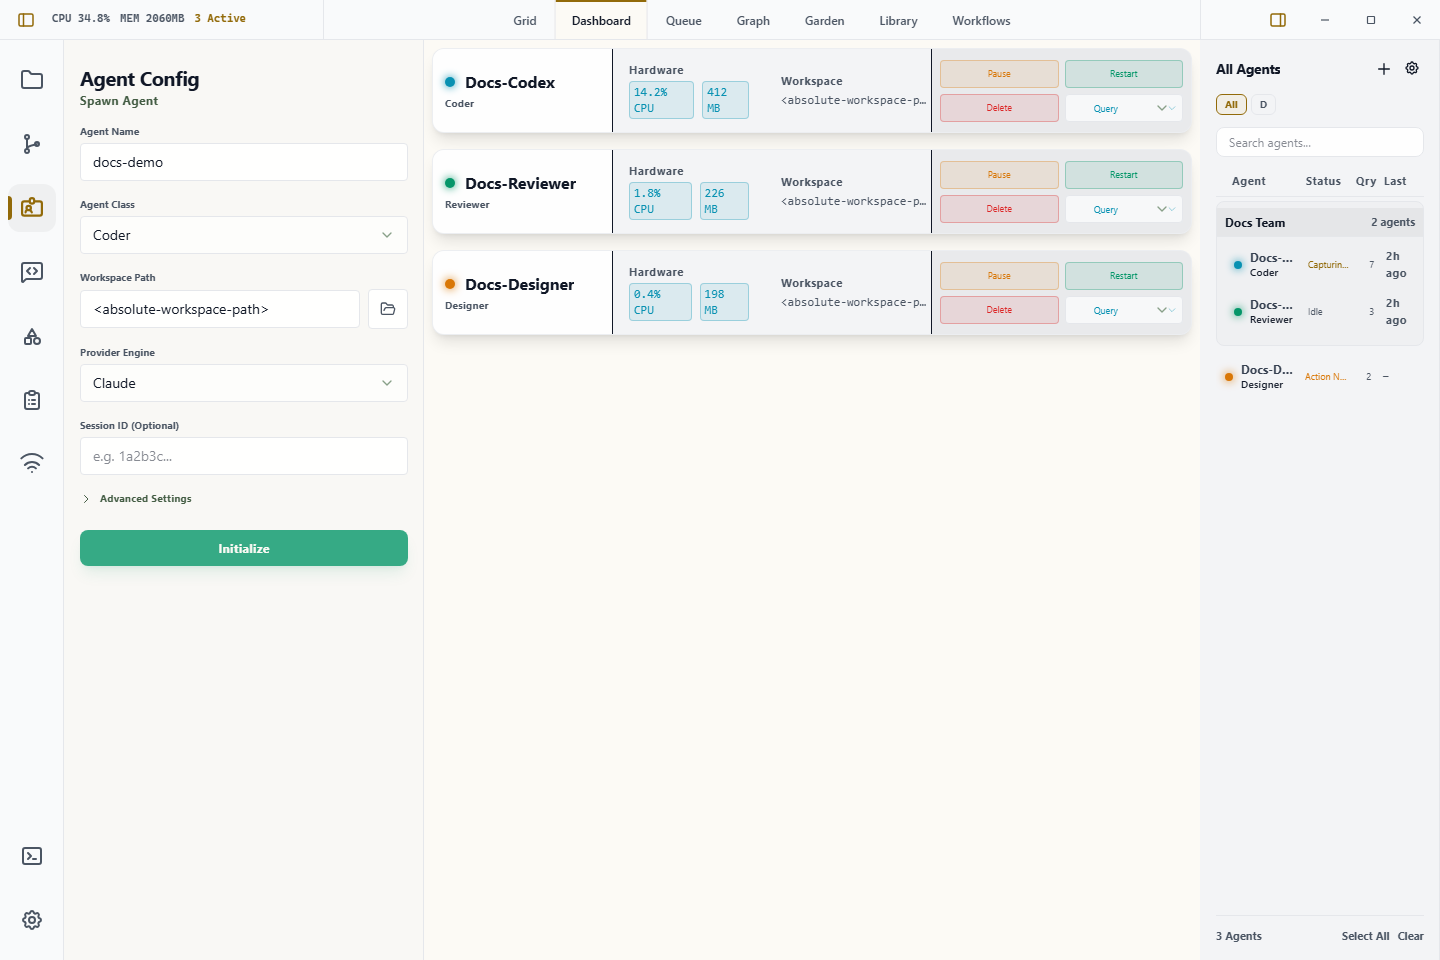
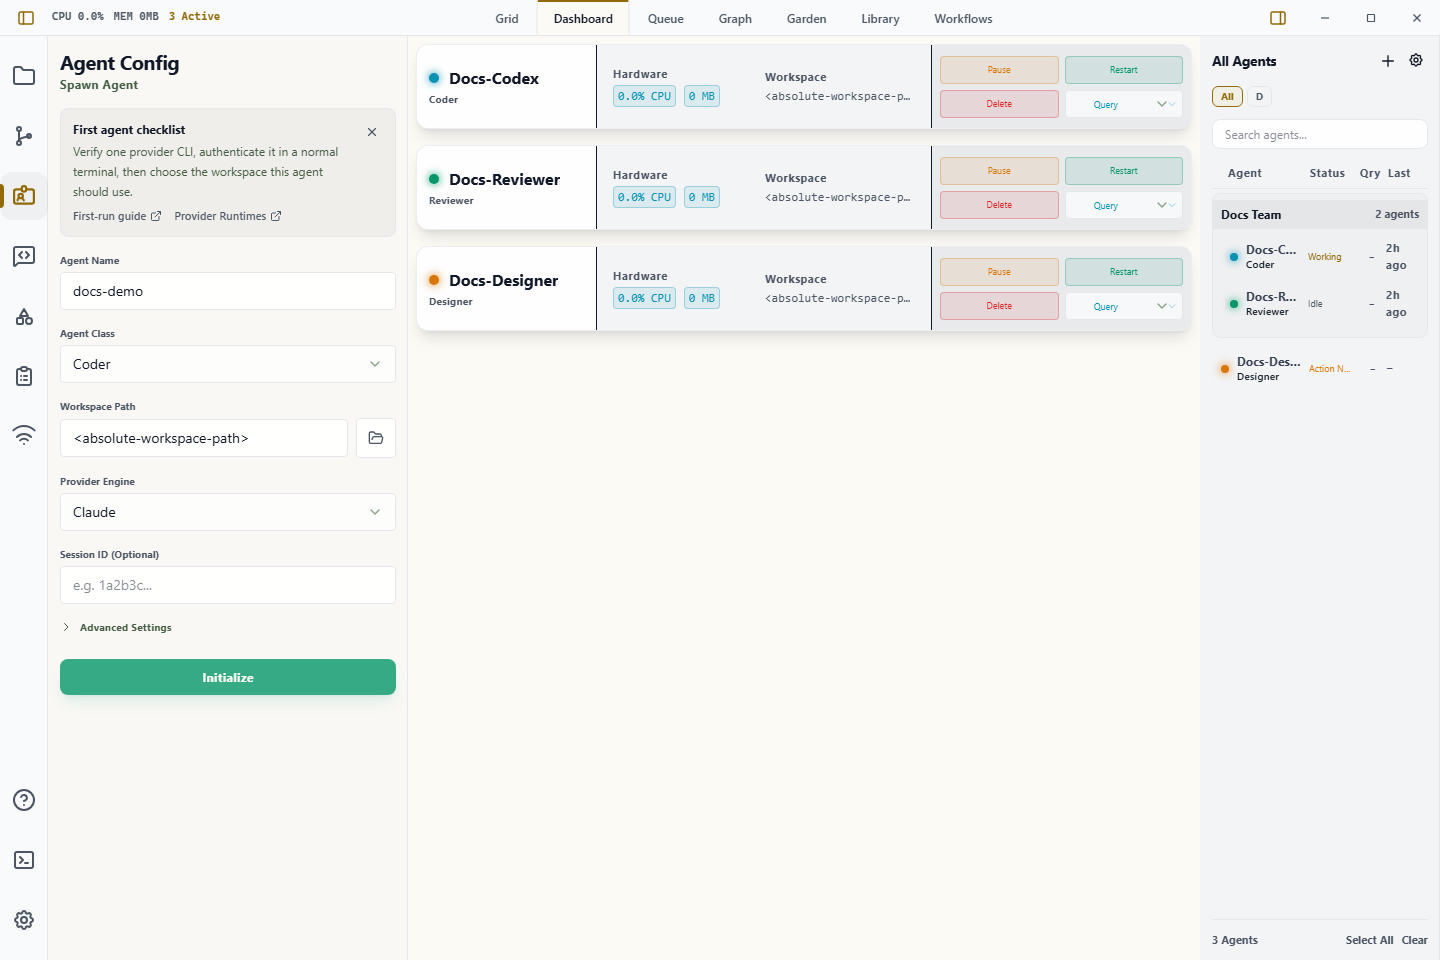
feat(onboarding): add contextual help entry points

diff --git a/src/components/OnboardingHint.test.tsx b/src/components/OnboardingHint.test.tsx
@@ -1,0 +1,57 @@
+import { render, screen } from "@testing-library/react";
+import userEvent from "@testing-library/user-event";
+import { describe, expect, it, beforeEach } from "vitest";
+import { DocsLink } from "./DocsLink";
+import { OnboardingHint } from "./OnboardingHint";
+
+describe("DocsLink", () => {
+  it("builds public docs links for in-app help", () => {
+    render(<DocsLink path="/guide/getting-started">Getting Started</DocsLink>);
+
+    expect(screen.getByRole("link", { name: /getting started/i })).toHaveAttribute(
+      "href",
+      "https://docs.wardian.org/guide/getting-started",
+    );
+    expect(screen.getByRole("link", { name: /getting started/i })).toHaveAttribute("target", "_blank");
+  });
+});
+
+describe("OnboardingHint", () => {
+  beforeEach(() => {
+    localStorage.clear();
+  });
+
+  it("stores dismissed hints locally so they do not repeat", async () => {
+    const user = userEvent.setup();
+
+    const { rerender } = render(
+      <OnboardingHint id="spawn-agent" title="Start here">
+        Verify a provider before spawning.
+      </OnboardingHint>,
+    );
+
+    expect(screen.getByText("Start here")).toBeInTheDocument();
+    await user.click(screen.getByRole("button", { name: /dismiss start here/i }));
+
+    rerender(
+      <OnboardingHint id="spawn-agent" title="Start here">
+        Verify a provider before spawning.
+      </OnboardingHint>,
+    );
+
+    expect(screen.queryByText("Start here")).not.toBeInTheDocument();
+    expect(localStorage.getItem("wardian:onboarding-hint:spawn-agent")).toBe("dismissed");
+  });
+
+  it("does not render an already-dismissed hint on first paint", () => {
+    localStorage.setItem("wardian:onboarding-hint:spawn-agent", "dismissed");
+
+    render(
+      <OnboardingHint id="spawn-agent" title="Start here">
+        Verify a provider before spawning.
+      </OnboardingHint>,
+    );
+
+    expect(screen.queryByText("Start here")).not.toBeInTheDocument();
+  });
+});

diff --git a/src/components/OnboardingHint.tsx b/src/components/OnboardingHint.tsx
@@ -1,0 +1,56 @@
+import { useEffect, useState, type PropsWithChildren, type ReactNode } from "react";
+import { X } from "lucide-react";
+
+const storagePrefix = "wardian:onboarding-hint:";
+
+interface OnboardingHintProps extends PropsWithChildren {
+  id: string;
+  title: string;
+  actions?: ReactNode;
+}
+
+function storageKey(id: string) {
+  return `${storagePrefix}${id}`;
+}
+
+function isStoredDismissed(id: string) {
+  return localStorage.getItem(storageKey(id)) === "dismissed";
+}
+
+export function OnboardingHint({ id, title, actions, children }: OnboardingHintProps) {
+  const [isDismissed, setIsDismissed] = useState(() => isStoredDismissed(id));
+
+  useEffect(() => {
+    setIsDismissed(isStoredDismissed(id));
+  }, [id]);
+
+  if (isDismissed) {
+    return null;
+  }
+
+  const dismiss = () => {
+    localStorage.setItem(storageKey(id), "dismissed");
+    setIsDismissed(true);
+  };
+
+  return (
+    <section className="rounded-lg border border-wardian-border bg-wardian-card-bg-muted px-3 py-3 text-xs text-muted">
+      <div className="flex items-start gap-3">
+        <div className="min-w-0 flex-1">
+          <h3 className="text-xs font-bold text-primary">{title}</h3>
+          <div className="mt-1 leading-5 text-muted">{children}</div>
+          {actions && <div className="mt-2 flex flex-wrap items-center gap-3">{actions}</div>}
+        </div>
+        <button
+          type="button"
+          aria-label={`Dismiss ${title}`}
+          title="Dismiss"
+          onClick={dismiss}
+          className="shrink-0 rounded-md p-1 text-muted-neutral hover:bg-wardian-card-bg hover:text-bright-neutral transition-colors"
+        >
+          <X className="h-3.5 w-3.5" aria-hidden="true" />
+        </button>
+      </div>
+    </section>
+  );
+}

diff --git a/src/components/DocsLink.tsx b/src/components/DocsLink.tsx
@@ -1,0 +1,38 @@
+import type { PropsWithChildren } from "react";
+import { ExternalLink } from "lucide-react";
+
+export const DOCS_BASE_URL = "https://docs.wardian.org";
+
+export function docsUrl(path: string): string {
+  const normalizedPath = path.startsWith("/") ? path : `/${path}`;
+  return `${DOCS_BASE_URL}${normalizedPath}`;
+}
+
+interface DocsLinkProps extends PropsWithChildren {
+  path: string;
+  className?: string;
+  title?: string;
+  "data-testid"?: string;
+}
+
+export function DocsLink({
+  path,
+  className = "inline-flex items-center gap-1 rounded-md text-[11px] font-semibold text-muted-neutral hover:text-[var(--color-wardian-accent)] transition-colors",
+  title,
+  "data-testid": testId,
+  children,
+}: DocsLinkProps) {
+  return (
+    <a
+      data-testid={testId}
+      href={docsUrl(path)}
+      target="_blank"
+      rel="noreferrer"
+      title={title}
+      className={className}
+    >
+      <span>{children}</span>
+      <ExternalLink className="h-3 w-3" aria-hidden="true" />
+    </a>
+  );
+}

diff --git a/src/features/agents/SpawnAgentPanel.test.tsx b/src/features/agents/SpawnAgentPanel.test.tsx
@@ -27,6 +27,25 @@ describe("SpawnAgentPanel", () => {
     expect(providerSelect).toHaveTextContent("OpenCode");
   });
 
+  it("shows dismissible provider and first-run help before spawning", () => {
+    render(
+      <SpawnAgentPanel
+        agentClasses={[{ name: "Generalist", description: "", is_default: true }]}
+        onSpawned={() => {}}
+      />,
+    );
+
+    expect(screen.getByText("First agent checklist")).toBeInTheDocument();
+    expect(screen.getByRole("link", { name: /first-run guide/i })).toHaveAttribute(
+      "href",
+      "https://docs.wardian.org/guide/getting-started",
+    );
+    expect(screen.getByRole("link", { name: /provider runtimes/i })).toHaveAttribute(
+      "href",
+      "https://docs.wardian.org/providers",
+    );
+  });
+
   it("sets the workspace path from the native folder picker", async () => {
     openMock.mockResolvedValue("C:\\projects\\picked-app");
     invokeMock.mockResolvedValue(true);

diff --git a/src/layout/SidebarIconRail.test.tsx b/src/layout/SidebarIconRail.test.tsx
@@ -20,4 +20,21 @@ describe("SidebarIconRail density", () => {
     expect(explorerIcon).toHaveClass("w-6");
     expect(explorerIcon).toHaveClass("h-6");
   });
+
+  it("exposes a non-blocking Getting Started help entry point from the app shell", () => {
+    render(
+      <SidebarIconRail
+        activeTab="explorer"
+        setActiveTab={vi.fn()}
+        setCollapsed={vi.fn()}
+        userTerminalOpen={false}
+        onToggleUserTerminal={vi.fn()}
+      />,
+    );
+
+    expect(screen.getByTestId("sidebar-help-getting-started")).toHaveAttribute(
+      "href",
+      "https://docs.wardian.org/guide/getting-started",
+    );
+  });
 });

diff --git a/src/features/agents/SpawnAgentPanel.tsx b/src/features/agents/SpawnAgentPanel.tsx
@@ -4,6 +4,8 @@ import { open } from "@tauri-apps/plugin-dialog";
 import { FolderOpen } from "lucide-react";
 import { AgentConfig, AgentClassDefinition, ProviderName } from "../../types";
 import { AdvancedSettings } from "../../components/AdvancedSettings";
+import { DocsLink } from "../../components/DocsLink";
+import { OnboardingHint } from "../../components/OnboardingHint";
 import { defaultProviderConfig, withProvider } from "./configUtils";
 
 interface Props {
@@ -101,6 +103,20 @@ export const SpawnAgentPanel: React.FC<Props> = ({ agentClasses, onSpawned }) =>
       <h3 className="text-xs font-bold text-muted tracking-wide mb-4">
         Spawn Agent
       </h3>
+      <div className="mb-4">
+        <OnboardingHint
+          id="spawn-agent-first-run"
+          title="First agent checklist"
+          actions={(
+            <>
+              <DocsLink path="/guide/getting-started">First-run guide</DocsLink>
+              <DocsLink path="/providers">Provider Runtimes</DocsLink>
+            </>
+          )}
+        >
+          Verify one provider CLI, authenticate it in a normal terminal, then choose the workspace this agent should use.
+        </OnboardingHint>
+      </div>
       <form className="flex flex-col gap-4" onSubmit={spawnAgent}>
         <div>
           <label className="block text-[10px] font-bold text-muted-neutral mb-1">

diff --git a/src/layout/SidebarIconRail.tsx b/src/layout/SidebarIconRail.tsx
@@ -1,5 +1,6 @@
 import React from "react";
-import { Folder, MessageSquareCode } from "lucide-react";
+import { Folder, HelpCircle, MessageSquareCode } from "lucide-react";
+import { docsUrl } from "../components/DocsLink";
 
 export type SidebarTab = "explorer" | "git" | "agent-config" | "command" | "classes" | "workflows" | "ssh" | "settings";
 
@@ -105,6 +106,18 @@ export const SidebarIconRail: React.FC<SidebarIconRailProps> = ({
       </button>
 
       <div className="mt-auto flex flex-col gap-3">
+        <a
+          data-testid="sidebar-help-getting-started"
+          href={docsUrl("/guide/getting-started")}
+          target="_blank"
+          rel="noreferrer"
+          className="relative p-3 rounded-xl transition-all group text-muted-neutral hover:text-bright-neutral"
+          title="Getting Started"
+          aria-label="Getting Started"
+        >
+          <HelpCircle className="w-6 h-6 group-hover:scale-110 transition-transform" strokeWidth={2} />
+        </a>
+
         <button
           data-testid="sidebar-tab-terminal"
           onClick={onToggleUserTerminal}

diff --git a/src/views/QueueView.tsx b/src/views/QueueView.tsx
@@ -2,6 +2,7 @@ import { useState } from "react";
 import { Bot, ChevronDown, ChevronUp, GitBranch, Trash2 } from "lucide-react";
 import { useQueueStore } from "../store/useQueueStore";
 import type { QueueItem } from "../types";
+import { DocsLink } from "../components/DocsLink";
 
 function relativeTime(ts: number): string {
   const diffMs = Date.now() - ts;
@@ -178,7 +179,16 @@ export function QueueView() {
 
       {items.length === 0 ? (
         <div className="flex-1 flex items-center justify-center">
-          <p className="text-sm text-muted-neutral">No completions yet.</p>
+          <div className="max-w-sm text-center">
+            <p className="text-sm font-semibold text-primary">No completions yet.</p>
+            <p className="mt-2 text-xs leading-5 text-muted-neutral">
+              Queue fills after an active agent or workflow finishes and returns a result.
+            </p>
+            <div className="mt-3 flex justify-center gap-4">
+              <DocsLink path="/guide/getting-started">First-run guide</DocsLink>
+              <DocsLink path="/guide/queue">Queue guide</DocsLink>
+            </div>
+          </div>
         </div>
       ) : (
         <div className="flex flex-1 min-h-0 flex-col gap-3 overflow-y-auto pr-1">

diff --git a/src/views/LibraryView.test.tsx b/src/views/LibraryView.test.tsx
@@ -1,4 +1,4 @@
-import { act, render } from '@testing-library/react';
+import { act, render, screen } from '@testing-library/react';
 import { beforeEach, describe, expect, it, vi } from 'vitest';
 import { LibraryView } from './LibraryView';
 import { useLibraryStore } from '../store/useLibraryStore';
@@ -32,5 +32,14 @@ describe('LibraryView', () => {
     });
 
     expect(cleanup).toHaveBeenCalledTimes(1);
+  });
+
+  it('links to the Library guide from the Library view', () => {
+    render(<LibraryView selectedAgentIds={new Set()} />);
+
+    expect(screen.getByRole('link', { name: /library guide/i })).toHaveAttribute(
+      'href',
+      'https://docs.wardian.org/guide/library',
+    );
   });
 });

diff --git a/src/features/settings/SettingsPanel.test.tsx b/src/features/settings/SettingsPanel.test.tsx
@@ -76,6 +76,16 @@ describe('SettingsPanel', () => {
     });
   });
 
+  it('links to the getting started guide from settings', async () => {
+    render(<SettingsPanel />);
+
+    expect(screen.getByRole('link', { name: /getting started/i })).toHaveAttribute(
+      'href',
+      'https://docs.wardian.org/guide/getting-started',
+    );
+    await screen.findByLabelText('Shell / Interpreter');
+  });
+
   it('loads discovered shells and current shell settings on mount', async () => {
     render(<SettingsPanel />);
 

diff --git a/src/views/QueueView.test.tsx b/src/views/QueueView.test.tsx
@@ -16,6 +16,14 @@ describe("QueueView", () => {
   it("shows empty state when no items", () => {
     render(<QueueView />);
     expect(screen.getByText("No completions yet.")).toBeInTheDocument();
+    expect(screen.getByRole("link", { name: /first-run guide/i })).toHaveAttribute(
+      "href",
+      "https://docs.wardian.org/guide/getting-started",
+    );
+    expect(screen.getByRole("link", { name: /queue guide/i })).toHaveAttribute(
+      "href",
+      "https://docs.wardian.org/guide/queue",
+    );
   });
 
   it("renders an agent completion item", () => {

diff --git a/src/features/terminal/UserTerminalPanel.tsx b/src/features/terminal/UserTerminalPanel.tsx
@@ -7,6 +7,7 @@ import { Terminal } from "@xterm/xterm";
 import "@xterm/xterm/css/xterm.css";
 import { FolderOpen, RefreshCcw, X } from "lucide-react";
 import { effectiveTerminalFontFamily, useSettingsStore } from "../../store/useSettingsStore";
+import { DocsLink } from "../../components/DocsLink";
 
 const DARK_TERM_THEME = {
   background: "#020402",
@@ -297,6 +298,12 @@ export function UserTerminalPanel({
         )}
         {exited && !statusMessage && <span className="text-xs text-muted">Shell exited</span>}
         <div className="ml-auto flex items-center gap-1">
+          <DocsLink
+            path="/guide/cli"
+            className="mr-1 inline-flex items-center gap-1 rounded-md px-1.5 py-1 text-[11px] font-semibold text-muted-neutral hover:bg-wardian-card-bg-muted hover:text-bright-neutral transition-colors"
+          >
+            CLI guide
+          </DocsLink>
           <button
             type="button"
             className="p-1.5 rounded-md text-muted-neutral hover:text-bright-neutral hover:bg-wardian-card-bg-muted disabled:opacity-40 disabled:cursor-not-allowed"